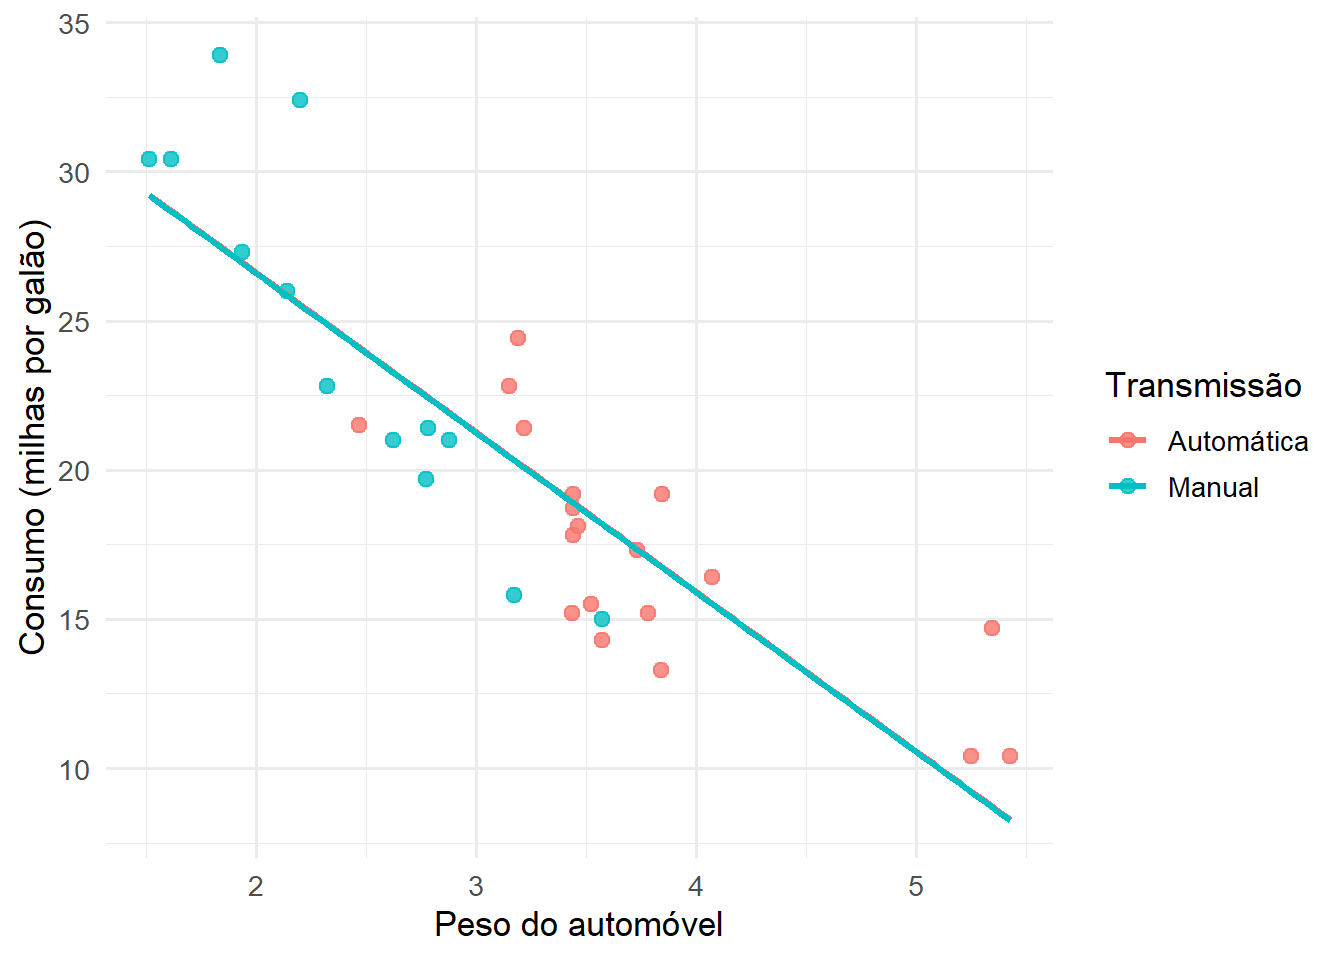
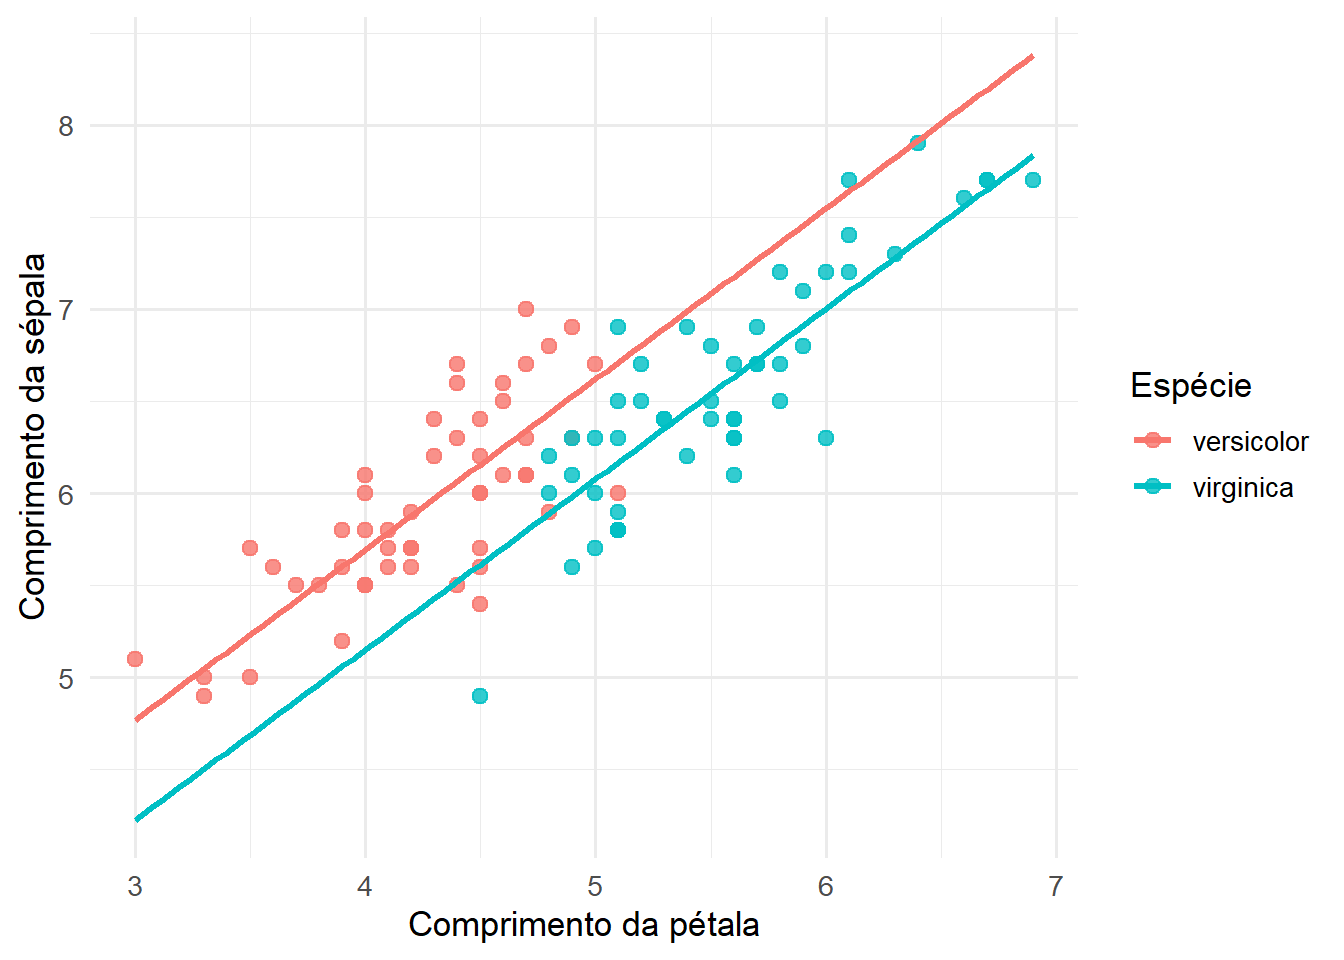
dummies

diff --git a/docs/mrlm_dummies.html b/docs/mrlm_dummies.html
@@ -677,6 +677,7 @@ Figura&nbsp;16.1: Efeito de uma variável dummy binária: deslocamento no interc
 </div>
 </div>
 </div>
+<p>```</p>
 <p>Na representação gráfica, uma dummy binária sem interação desloca a reta para cima ou para baixo. As retas possuem a mesma inclinação, mas interceptos diferentes. Isso significa que o efeito da variável quantitativa é assumido igual nos dois grupos, enquanto a diferença entre os grupos aparece como uma diferença vertical.</p>
 </section>
 <section id="fatores-com-múltiplas-categorias" class="level2" data-number="16.3">
